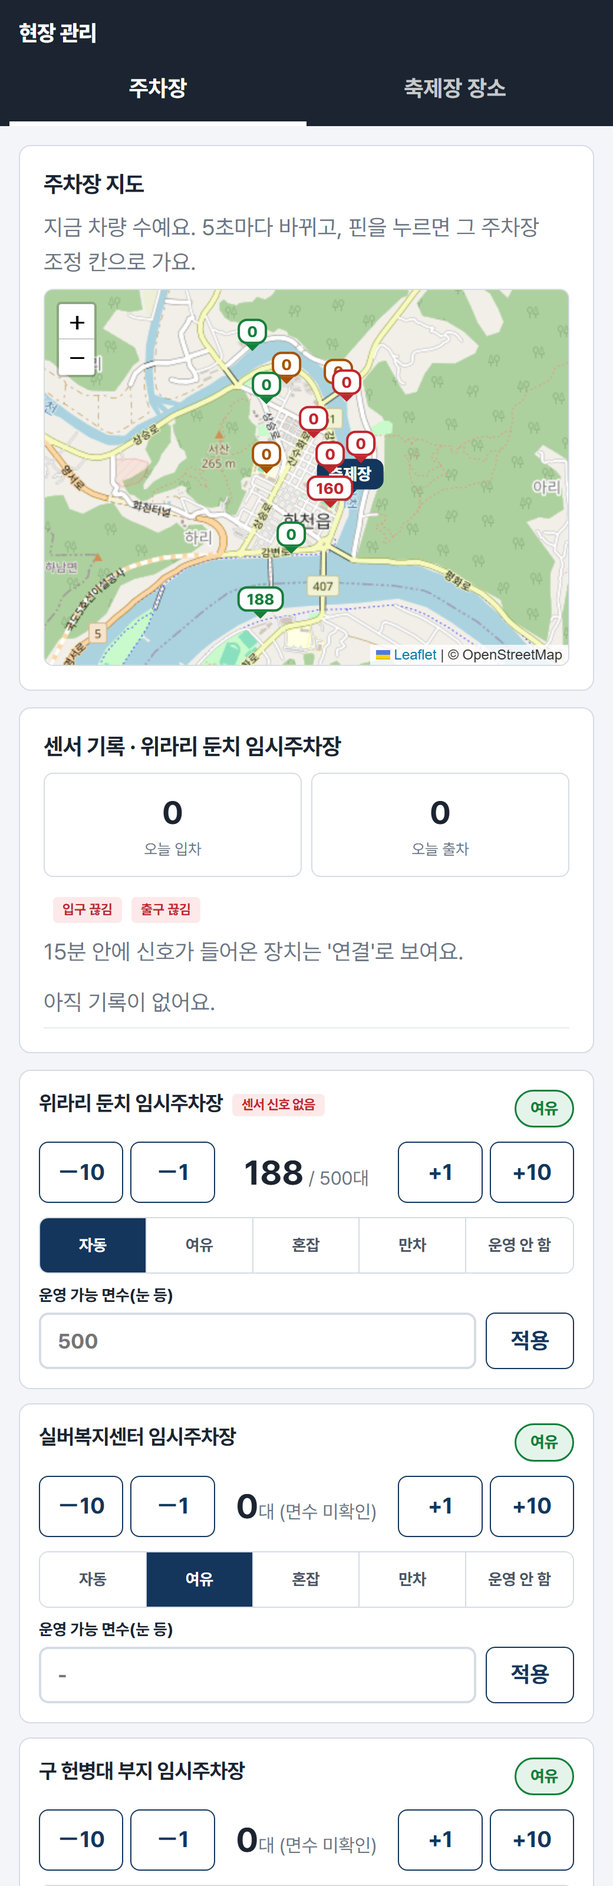
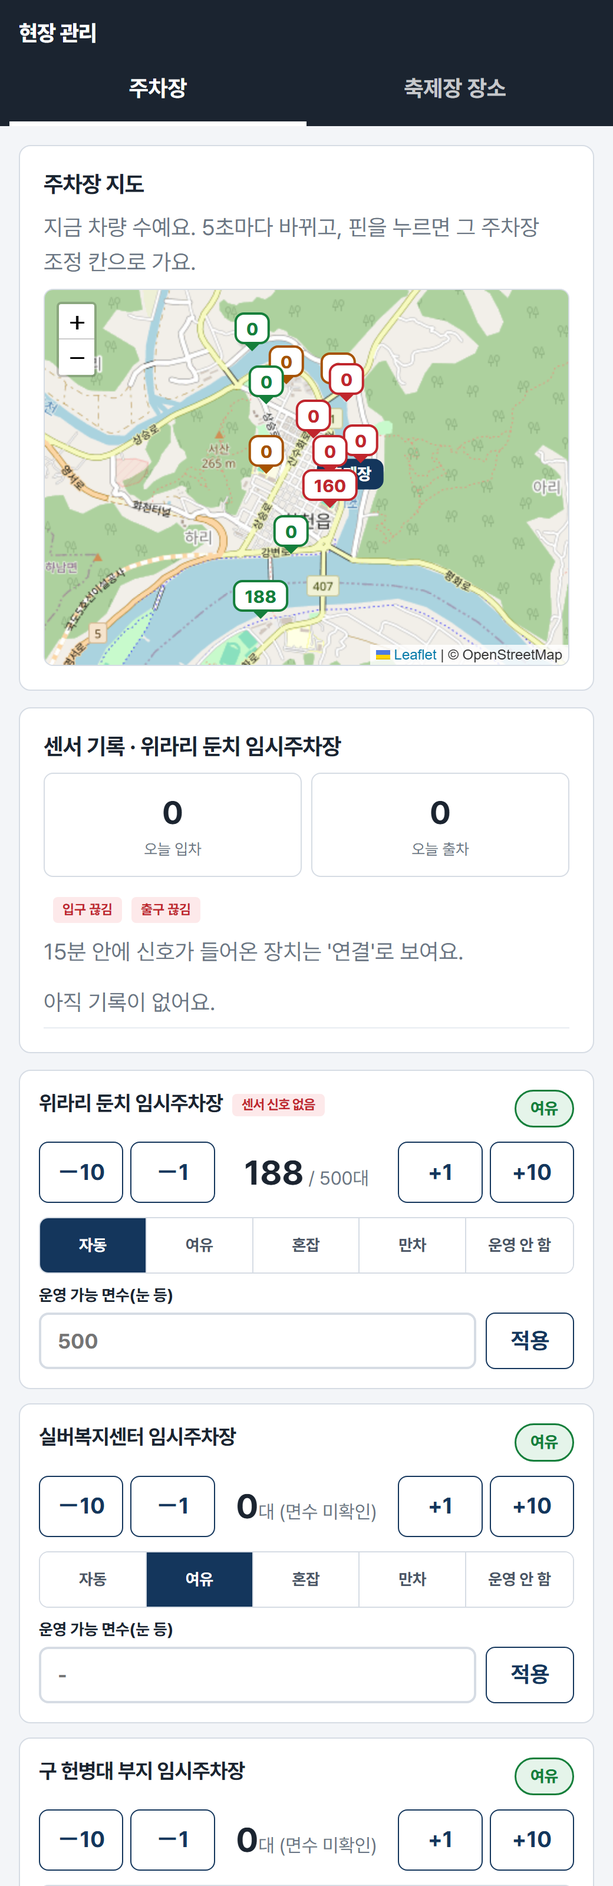
문서 최신화: 기획문서 화면 설명, 발표·시연 계획 새로 작성, 발표 당일 체크리스트, 직접 설정할 것, 화면 캡처 갱신

Changed region(s): [[0.3692, 0.1562, 0.6154, 0.3438]]

diff --git a/docs/발표_시연_계획.md b/docs/발표_시연_계획.md
@@ -1,80 +1,59 @@
-# 발표·시연 계획 (11/21 토, 발표 7분 + 질의 3분, 20쪽 안팎)
-
-> **2026-11-16 변경:** 팀 결정으로 QR·무료이용권 기능을 코드에서 뺐다. 지금 서비스는 남은 자리 안내(센서 집계) + 셔틀 안내 + 현장 관리다. 아래 이용권·QR 관련 내용은 결정 이전 기록이며, 발표 흐름은 새로 정해야 한다.
+# 발표·시연 계획 (11/21 토, 발표 7분 + 질의 3분, 20쪽) — 2026-11-16 최신
 
 듣는 사람: 화천군청 멘토(교통 담당 포함). 이 프로젝트를 **처음 듣는다** → 1학기 내용부터 짧게.
-핵심 메시지 한 줄: **"가까운 주차장을 더 만들 수는 없으니, 먼 주차장에 댈 이유를 주고 그걸 확인하는 일을 쉽게 했다."**
-
-## 1. 슬라이드 구성 (20쪽, 7분)
-| # | 목차 | 슬라이드 | 핵심 내용 / 자료 | 시간 |
-|---|---|---|---|---|
-| 1 | 표지 | 산천어축제 안내 | 팀명, 날짜 | 0:10 |
-| 2 | 1. 과제 선정배경 | 겨울 하루, 화천읍에 몰리는 차 | 재방문율 높은 축제, 좁은 읍내. 사진: 정체·불법주차 (출처 표기) | 0:25 |
-| 3 | | 숫자로 본 문제 | 임시주차장 41개소(2026 안내), 토요일 8:30 만차(인터뷰), 셔틀 20분 간격 | 0:25 |
-| 4 | | 다른 축제는? | 해외·국내 실시간 주차 안내·외곽 주차+셔틀 사례 1~2개 (적용 가능/어려운 점) | 0:20 |
-| 5 | 2. 고객 공감·문제정의 | 누가 힘든가 | 방문객(50대 이상 다수, 탐색·대기) / 현장 직원(주차장당 6명, 사람이 직접 확인) | 0:25 |
-| 6 | | 담당자 인터뷰 (11/12) | 인용 3개: "토요일은 8시 반이면 모든 주차장이 다 차요"(04:29) / "강을 건너야 한다는 생각 때문에 이용을 잘 안 하세요"(05:34) / "차를 통제하다가 사고가 나면… 부담이 크죠"(21:09) | 0:30 |
-| 7 | | 문제 정의 한 문장 | 정보가 없어서가 아니라 **먼 주차장에 갈 이유가 없어서** 가까운 곳으로 몰린다 | 0:15 |
-| 8 | 3. 해결아이디어 | 1학기 아이디어 | QR 예약 전용 주차장 + 센서 | 0:15 |
-| 9 | | 현장에서 바뀐 생각 | "주차 예약을 하면 비워놓는 상황이 생기잖아요"(15:11) · "QR 주차장은 젊은 층에 대한 특혜"(16:40) → **방향 전환** | 0:25 |
-| 10 | | 바뀐 해법 (담당자 제안 그대로) | "무료이용권을 주는 주차장에… QR로 하면"(16:58) → 먼 주차장 주차 → 입구 QR → 센서로 주차 확인 → 휴대폰 이용권 / 현장 컴퓨터 발급(17:15) → 안내소 사용. 셔틀 3→5대 증차 검토(18:26) | 0:25 |
-| 11 | | 부정 발급을 막는 법 | 센서 입차 1건 = 이용권 1장, 차량당 하루 1장, 직원 대리 발급(휴대폰 어려운 분) | 0:20 |
-| 12 | 4. 프로토타입·테스트 | 시스템 구성 | 센서(STM32·Pico) → 노트북 브리지 → 서버 → 웹. 그림 1장 | 0:20 |
-| 13 | | **라이브 시연** | 아래 시연 순서 (1분 30초) | 1:30 |
-| 14 | | 화면 ① 현황판·QR 화면 | 캡처 (docs/shots) | 0:10 |
-| 15 | | 화면 ② 이용권·현장 관리 | 캡처 + QR 안내판 실물 | 0:10 |
-| 16 | | 테스트 결과 | 자동 테스트 12개 통과, 센서 계수 시험 결과(수동 계수 vs 장치 계수 표), 실패·개선 사례 | 0:25 |
-| 17 | | 구현 / 연결 / 계획 구분 | ✔구현: 웹·이용권·관리 / ✔연결: 센서→잔여면수 / ◻계획: 실제 면수·위치 데이터, 현장 설치 | 0:15 |
-| 18 | 5. 기대효과 | 기대효과 (미측정) | 먼 주차장 이용 증가, 가까운 주차장 진입 감소, 직원 확인·발급 업무 감소. 측정 방법(발급 수, 입차 수) 같이 제시 | 0:25 |
-| 19 | 6. 학습포인트 | 우리가 배운 것 | "만들고 싶은 것"과 "현장이 필요한 것"의 차이. 인터뷰 후 방향 전환 경험, 센서 시험 실패 이야기 | 0:30 |
-| 20 | 마무리 | 다음 단계 + 요청 | 담당자께 요청: 주차장별 면수·위치, 이용권 종류, 시범 운영 1곳 | 0:10 |
-
-원칙: 측정 안 한 효과는 "기대효과", 예시 데이터는 "예시"로 말한다. 화천군·축제 공식 로고 사용 금지.
+핵심 한 줄: **"가까운 주차장을 더 만들 수는 없으니, 여유 있는 먼 주차장으로 가게 만드는 정보를 한 화면에 모았다."**
 
 > 당일 아침에는 [발표당일_체크리스트.md](발표당일_체크리스트.md) 만 보면 됨
 
+## 1. 슬라이드 구성 (지정 목차 6개)
+| # | 목차 | 슬라이드 | 핵심 내용 / 자료 | 시간 |
+|---|---|---|---|---|
+| 1 | 표지 | 산천어축제 안내 | 팀명, 날짜, 한 줄 | 0:10 |
+| 2 | 1. 과제 선정배경 | 겨울 하루, 화천읍에 몰리는 차 | 재방문율 높은 축제, 좁은 읍내. 사진: 정체·불법주차(출처 표기) | 0:25 |
+| 3 | | 숫자로 본 문제 | 08:30 토요일 만차(인터뷰), 임시주차장 12곳(2026 안내), 셔틀 20분, 주차장당 직원 6명+ | 0:25 |
+| 4 | | 다른 축제는? | 실시간 주차 안내·외곽 주차+셔틀 사례(적용 가능/어려운 점) | 0:20 |
+| 5 | 2. 고객 공감·문제정의 | 누가 힘든가 | 방문객(50대 이상 다수, 빈자리 찾아 돎) / 현장 직원(무전으로 확인, 통제 권한·책임 부담) | 0:25 |
+| 6 | | 담당자 인터뷰 (11/12) | 인용: "토요일은 8시 반이면 모든 주차장이 다 차요"(04:29) / "강을 건너야 한다는 생각 때문에 이용을 잘 안 하세요"(05:34) / "사람이 일일이 확인"(08:08) | 0:30 |
+| 7 | | 문제 정의 한 문장 | 자리가 없는 게 아니라, **어디가 비었는지·셔틀이 언제 오는지 몰라서** 가까운 곳으로 몰린다 | 0:15 |
+| 8 | 3. 해결아이디어 | 1학기 아이디어 | QR 예약 전용 주차장 + 입출구 센서 | 0:15 |
+| 9 | | 현장에서 바뀐 생각 | "예약을 하면 비워놓는 상황이 생기잖아요"(15:11) · "QR 주차장은 젊은 층 특혜"(16:40) → 예약 대신 **정보 + 혜택 안내** | 0:25 |
+| 10 | | 바뀐 해법: 한 화면 흐름 | ① 여유 있는 곳 추천 → ② 카카오맵 길찾기 → ③ 먼 주차장 주차(센서가 셈) → ④ 셔틀 N분 후 → ⑤ 축제장 안내도 (docs/img/flow.png) | 0:25 |
+| 11 | | 현장 직원 화면 | 주차장 지도에 지금 차량 수, ±버튼, 눈 올 때 운영 가능 면수, 센서 기록 → 무전 대신 화면 하나 | 0:20 |
+| 12 | 4. 프로토타입·테스트 | 시스템 구성 | 센서(STM32·Pico) → 노트북 브리지 → 서버(Render) → 웹(Vercel) (docs/img/architecture.png) | 0:20 |
+| 13 | | **라이브 시연** | 아래 시연 순서 | 1:30 |
+| 14 | | 화면 ① 방문객 | 홈 추천·길찾기, 주차장 상세(셔틀 정류장 지도·걸어서 N분) (docs/shots 01·02) | 0:10 |
+| 15 | | 화면 ② 셔틀·축제장 | 정류장 한 줄 + 버스 위치, 축제장 안내도 (docs/shots 03·04) | 0:10 |
+| 16 | | 테스트 결과 | 자동 테스트 14개 통과, 센서 계수 시험(사람이 센 수 vs 장치가 센 수 표), 실패·개선 사례 | 0:25 |
+| 17 | | 만든 것 / 연결한 것 / 아직인 것 | ✔구현: 웹 전체·관리·센서 수신 / ✔연결: 센서→남은 자리 / ◻아직: 실제 면수·좌표, 셔틀 실시간 GPS, 현장 설치 | 0:15 |
+| 18 | 5. 기대효과 | 기대효과 (미측정) | 먼 주차장 이용 증가, 가까운 곳 진입 감소, 직원 무전 확인 줄임. 측정 방법: 주차장별 입차 수, 위라리 이용률 | 0:25 |
+| 19 | 6. 학습포인트 | 우리가 배운 것 | "만들고 싶은 것"과 "현장이 필요한 것"의 차이. 예약 → 안내로 바꾼 경험, 센서 시험 실패 이야기 | 0:30 |
+| 20 | 마무리 | 다음 단계 + 요청 | 담당자께: 주차장별 면수·위치, 정류장 실제 시각, 시범 운영 1곳(위라리 둔치 입구 센서) | 0:10 |
+
+원칙: 측정 안 한 효과는 "기대효과", 추정 값은 "추정"으로 말한다. 화천군·축제 공식 로고 사용 금지.
+
 ## 2. 라이브 시연 순서 (1분 30초)
-준비물: 노트북(백엔드·프론트·브리지 실행), 센서 키트(입구 A·B), 인쇄한 **QR 안내판**(관리 → QR 안내판 → 인쇄), 시연용 휴대폰, 프로젝터에 노트북 화면.
+준비물: 노트북(브리지), 센서 키트(입구 A·B), 시연용 휴대폰(미러링), 프로젝터에 노트북 화면.
+서버: Render 환경 변수 `DEMO_CLOCK=2027-01-16T09:30`(축제 토요일 오전), `SHUTTLE_ALWAYS=true`.
 
-1. (10초) 프로젝터에 **임시주차장 현황**. "토요일 오전 9시 30분 상황입니다. 가까운 곳은 만차, 위라리 둔치는 남은 자리 312."
-2. (20초) 센서 앞에서 손이나 판으로 **A → B 순서로 빔을 가림** → 현황판 위라리 숫자가 줄어드는 걸 보여줌. "차가 들어오면 센서가 세고 바로 반영됩니다."
-3. (30초) 휴대폰으로 **QR 안내판을 찍음** → 위라리 둔치 화면 → 차량번호 입력 → **이용권 발급**. 휴대폰 화면을 카메라나 미러링으로 보여줌.
-4. (20초) 관리 화면 **이용권 탭** → 번호 입력 → **사용 처리** → 휴대폰 화면이 "사용 완료"로 바뀜. "안내소 직원은 이 화면 하나만 쓰면 됩니다."
-5. (10초) 같은 차량번호로 다시 발급 시도 → "이미 받으셨어요" 거부. 끝.
+1. (15초) 휴대폰 홈: **추천 상자** "위라리 둔치 312자리 남음 · 셔틀 정류장: 화천체육관" → **[카카오맵 길찾기]** 눌러 앱이 열리는 것까지
+2. (20초) 센서 앞에서 판으로 **A→B 순서로 빔 가리기** → 홈·관리 화면 위라리 숫자가 바로 바뀜 ("직원이 무전으로 세던 걸 센서가 셉니다")
+3. (20초) 위라리 상세: **셔틀 정류장 지도 · 걸어서 약 3분 · 다음 셔틀 N분 후 · 타면 축제장까지 10분**
+4. (20초) 셔틀 탭: 정류장 한 줄에서 **버스가 어디쯤 있는지**
+5. (15초) 축제장 탭: **안내도**에서 현장낚시터 눌러 요금·길찾기
 
-### 시연 전 체크 (발표 30분 전)
-```bash
-cd backend && ./gradlew bootRun --args='--app.demo-clock=2027-01-16T09:30'
-cd frontend && npm run dev
-python tools/demo_setup.py
-python sensor/bridge.py --serial COM5      # STM32 포트 확인: 장치 관리자
-```
-- 휴대폰이 노트북 화면에 접속하려면 같은 Wi-Fi + 노트북 IP 주소(`http://192.168.x.x:5173`). 또는 배포 주소(Vercel)로 QR 안내판을 인쇄.
-- 관리 화면 키: 로컬은 `dev-admin`.
-- 한 번 리허설하고 `rm -rf backend/data` 로 초기화한 다음 다시 `demo_setup.py`.
-
-### 플랜 B (센서·네트워크 문제 시)
-- 센서 안 되면: `python sensor/simulate.py --count 5 --fast` 로 입차를 보내서 같은 흐름 진행. "실물 시험 결과는 다음 장에서"라고 말함.
-- 인터넷 안 되면: 노트북 한 대에서 전부 로컬로 실행 (휴대폰 대신 노트북 브라우저로 /p/wirari 접속).
-- 최악: 미리 찍은 **시연 영상**(1분 30초) 재생. → 월요일까지 촬영해 둘 것.
+### 플랜 B
+- 센서 안 되면: `python sensor/simulate.py --api https://parkingmate-api.onrender.com --key "SENSOR_KEY" --count 3 --fast`
+- 인터넷 안 되면: 노트북 로컬 실행 (README "로컬 실행")
+- 최악: 미리 찍은 시연 영상(1분 30초)
 
 ## 3. 예상 질문과 답 (3분)
 | 질문 | 답의 요지 |
 |---|---|
-| 이용권 예산·종류는 누가 정하나? | 군에서 검토 중인 방안(인터뷰)에 맞춰 만들었고, 종류·수량은 설정값이라 정해지면 바로 바뀝니다. 지금은 예시입니다. |
-| QR 사진만 찍어서 집에서 받으면? | 센서가 있는 주차장은 최근 90분 안의 실제 입차 1건당 1장만 발급되고, 차량번호당 하루 1장입니다. 센서 없는 곳은 직원 발급으로 운영합니다. |
-| 어르신들은 휴대폰 못 쓰시는데? | 주차장 직원이 차량번호로 대신 발급하는 화면이 있습니다. 화면 글자도 크게, 단계는 차량번호 하나만 입력하게 했습니다. |
-| 눈 오면 주차선이 안 보이는데 센서가 맞나? | 센서는 들어오고 나간 대수만 셉니다. 실제로 댈 수 있는 면수는 직원이 "운영 가능 면수"로 바로 고칠 수 있게 했습니다(인터뷰 반영). |
-| 겨울 추위에 장비·건전지는? | AA 건전지 전원 + 퓨즈. 영하 시험은 아직 못 했고, 실제 설치 전 확인할 항목으로 정리했습니다. (사실대로) |
-| 개인정보(차량번호)는? | 차량번호는 중복 발급 방지에만 쓰고 그날 축제가 끝나면 지워도 되는 구조입니다. 실제 운영 전 보관 기간을 군과 정하겠습니다. |
-| 설치비·운영비는? | 시제품 부품비 약 56만 원(차로 2개). 서버는 무료 등급으로 시연 중이고, 실제 운영 시 비용은 별도 산정이 필요합니다. |
-| 현장 인력 통제 부담은 줄어드나? | 담당자께서 말씀하신 통제 권한·사고 책임 문제(녹음 20~21분)는 제도 문제라 저희가 풀 수는 없습니다. 다만 막아서 돌려보내는 대신 혜택으로 스스로 가게 하는 방식이라 직원이 차를 직접 막는 상황을 줄이는 쪽입니다. 효과는 아직 측정하지 못했습니다. |
-| 기존 방식보다 뭐가 나은가? | 지금은 직원이 무전으로 상황을 공유합니다. 이 화면 하나로 직원·방문객이 같은 정보를 보고, 발급·사용 기록이 남아 효과를 숫자로 볼 수 있습니다. |
-
-## 4. 월요일 저녁까지 남은 일
-- [ ] 카카오맵 키 넣기 → 지도 카카오로 전환 확인
-- [ ] 담당자 확인: 면수, 강 건너 부지 위치, 이용권 종류 → 시드 데이터 반영
-- [ ] 센서 실물 시험: 수동 계수 vs 장치 계수 10회 이상 기록 (사진·영상)
-- [ ] Render + Neon + Vercel 배포 → QR 안내판을 배포 주소로 인쇄
-- [ ] 시연 영상 촬영 (플랜 B)
-- [ ] PPT 20쪽 작성 (위 표 기준), 발표 리허설 2회 (7분 타이머)
+| 셔틀 위치는 진짜인가? | 지금은 시간표로 계산한 예상 위치라고 화면에 적어 뒀습니다. 기사님 휴대폰 위치를 보내면 실제 위치로 바꿀 수 있게 구조를 나눠 뒀습니다. |
+| 이용권은 누가 주나? | 지급은 화천군(축제 운영)이 맡고, 저희는 "먼 주차장에 대면 이용권" 안내로 방문객을 유도합니다. 인터뷰에서 담당자께서 제안하신 방향입니다. |
+| 어르신들은 휴대폰을 잘 못 쓰시는데? | 첫 화면에 추천 1곳과 큰 길찾기 버튼만 보이게 했고, 글자 19px 이상·버튼 52px 이상입니다. 현장 직원 화면은 주차 안내에 그대로 쓰실 수 있습니다. |
+| 눈 오면 주차선이 안 보이는데? | 센서는 들어오고 나간 대수만 셉니다. 실제 댈 수 있는 면수는 직원이 "운영 가능 면수"로 바로 고칩니다(인터뷰 반영). |
+| 면수·위치가 정확한가? | 화천초 160면(인터뷰), 위라리 약 500대(통화 메모) 외에는 "정보없음"으로 표시합니다. 좌표 일부는 공식 배치도 근사라 멘토링 때 받는 자료로 고칠 예정입니다. |
+| 겨울 추위에 장비·건전지는? | AA 건전지 + 퓨즈 구성. 영하 시험은 아직 못 했고 실제 설치 전 확인할 항목입니다. |
+| 설치비·운영비는? | 시제품 부품 약 56만 원(차로 2개). 서버는 무료 등급으로 운영 중이고 실제 운영 비용은 따로 계산이 필요합니다. |
+| 기존 방식보다 뭐가 나은가? | 직원은 무전 대신 화면 하나로 같은 숫자를 보고, 방문객은 같은 숫자를 휴대폰으로 봅니다. 입차 기록이 남아 효과를 숫자로 볼 수 있습니다. |

diff --git a/docs/직접_설정할_것.md b/docs/직접_설정할_것.md
@@ -1,48 +1,37 @@
-# 직접 해 주셔야 하는 설정·확인 (2026-11-15)
+# 직접 해 주셔야 하는 설정·확인 (2026-11-16 최신)
 
-키와 비밀번호는 채팅에 붙여 넣지 말고, 아래에 적은 파일이나 환경 변수에 직접 넣어 주세요.
+키와 비밀번호는 채팅에 붙여 넣지 말고, 아래에 적은 곳에 직접 넣어 주세요.
 
-## 1. 카카오맵 키 (지도 표시에 꼭 필요)
-1. https://developers.kakao.com 에 카카오 계정으로 로그인합니다.
-2. 내 애플리케이션 → 애플리케이션 추가하기를 누릅니다. 앱 이름은 예를 들어 `화천축제주차안내`로 합니다.
-3. 앱 설정 → 플랫폼 → Web 플랫폼 등록에서 사이트 도메인을 추가합니다.
-   - `http://localhost:5173`
-   - Vercel 배포 주소는 배포한 뒤에 추가합니다.
-4. 제품 설정 → 카카오맵 → 사용 설정을 ON으로 켭니다. 이걸 안 켜면 지도가 안 떠요.
-5. 앱 키 2개를 저장합니다.
-   - JavaScript 키: `frontend/.env.local` 파일을 새로 만들고 아래 한 줄을 적습니다.
-     ```
-     VITE_KAKAO_JS_KEY=여기에_JavaScript_키
-     ```
-   - REST API 키: 주차장 좌표를 카카오 검색으로 보정할 때 씁니다. 잘 보관해 두면 나중에 실행 방법을 알려 드릴게요.
+## 끝난 것
+- [x] GitHub 저장소: https://github.com/bbobbi76/ParkingMate (main 에 push 하면 바로 배포)
+- [x] Neon(PostgreSQL), Render(서버), Vercel(웹) 배포
+- [x] 카카오맵 JavaScript 키 + `https://parking-mate.vercel.app` 도메인 등록 → 배포 사이트에서 카카오맵 표시 확인
 
-키가 없어도 지도는 OpenStreetMap으로 대신 나와요. 그래도 발표할 때는 카카오맵이 더 익숙해서 좋아요.
+## 남은 것
+### 1. 카카오 개발자 콘솔 (로컬에서도 카카오맵 보려면)
+developers.kakao.com → 내 애플리케이션 → 앱 설정 → 플랫폼 → Web 사이트 도메인에 추가
+- `http://localhost:5173`
+- `http://<내 PC IP>:5173` (같은 와이파이 휴대폰으로 볼 때)
 
-## 2. GitHub 저장소
-- 새 저장소를 만듭니다. 예: `hwacheon-parking`, Private도 괜찮아요.
-- 만들고 나서 주소를 알려 주시면 제가 코드를 올려 둘게요.
+등록 안 하면 로컬에서는 OpenStreetMap 으로 대신 나와요(기능은 같음).
 
-## 3. Neon (PostgreSQL DB, 무료, 카드 불필요)
-1. https://neon.tech 에 GitHub로 가입합니다.
-2. 새 프로젝트를 만들 때 Region은 AWS Asia Pacific (Singapore)로 고릅니다.
-3. Connection string을 복사해서 메모장에 보관합니다. Render 배포 때 씁니다.
+### 2. Render 환경 변수 (발표 전 확인)
+Render → parkingmate-api → Environment
+| 이름 | 발표 때 | 평소 |
+|---|---|---|
+| `DEMO_CLOCK` | `2027-01-16T09:30` | 비움(현재 시각) |
+| `SHUTTLE_ALWAYS` | `true` | 실제 운영 시 `false` |
+| `ADMIN_OPEN` | `true` | `false` |
 
-## 4. Render (백엔드 서버, 무료) / Vercel (웹 화면, 무료)
-- https://render.com , https://vercel.com 에 각각 GitHub로 가입만 해 두세요.
-- 실제 배포는 저장소를 만든 뒤에 같이 해요.
-- Render 무료 서버는 15분 동안 아무도 안 쓰면 잠들어요. 시연 5분 전에 사이트를 한 번 열어서 깨워 두면 됩니다.
+### 3. 좌표 보정 (선택)
+카카오 REST API 키가 있으면 주차장·축제장 장소 좌표를 카카오 장소 검색으로 고칠 수 있어요. 키는 PowerShell 에서만 넣기: `$env:KAKAO_REST_KEY = "..."`
+특히 위라리 둔치는 지금 배치도 근사 좌표라 강 쪽으로 조금 치우쳐 보여요.
 
-## 5. 담당자께 확인할 데이터 (문자나 전화)
-- [ ] 임시주차장별 면수. 지금 아는 건 화천초 약 160대, 강 건너 약 500대뿐이에요.
-- [ ] "강 건너 약 500대" 부지가 **위라리 둔치 주차장**이 맞는지
-- [ ] 무료이용권 종류. 녹음에는 "낚시 제외, 눈썰매 등 체험"으로 나와요.
-- [ ] 이용권을 줄 주차장. 지금은 위라리 둔치, 실버복지센터, 구 헌병대 부지로 잡아 둔 팀 제안이에요.
-- [ ] 2027 축제 셔틀 정류장별 도착 시각. 지금은 정류장 사이 10분으로 추정해 넣었어요.
+### 4. 담당자께 확인할 데이터 (멘토링 때)
+- [ ] 임시주차장별 면수·정확한 위치, 2027 축제 사용 여부(특히 화천초)
+- [ ] "강 건너 약 500대" 부지가 위라리 둔치가 맞는지
+- [ ] 이용권 지급 방식·장소(화천군 운영)와 대상 주차장
+- [ ] 셔틀 정류장별 실제 도착 시각, 증차 계획
 
-## 6. 하드웨어 (센서 연결용)
-- STM32는 차가 지나갈 때마다 USB 시리얼로 한 줄씩 보내게 해 주세요. 형식은 `IN` 또는 `OUT`이고 줄 끝에 줄바꿈을 붙여요. 노트북 쪽 브리지 프로그램은 제가 만들게요.
-- Pico 2 WH는 Wi-Fi로 노트북의 브리지에 같은 형식으로 보내요. 펌웨어 예시 코드도 드릴게요.
-
-## 지금 이미 확보한 공식 자료
-- 임시주차장 11개소와 캠핑카 1개소의 이름과 배치도: 재단법인 나라 2026 「임시 주차장 안내」
-- 주말 셔틀: 토·일 09:00~18:00, 4대 순환, 약 20분 간격. 정류장 순서는 화천체육관 → 청소년 수련관 → 화천실버복지센터 → 구 헌병대 → 정보산업고 → 시외버스터미널 → 배수펌프장
+### 5. 하드웨어
+- 센서 연동은 [하드웨어_전달_박서빈.md](하드웨어_전달_박서빈.md) 와 지침서 기준. 배포 서버 주소와 `SENSOR_KEY` 는 직접 전달.

diff --git a/docs/발표당일_체크리스트.md b/docs/발표당일_체크리스트.md
@@ -6,10 +6,14 @@
 | 웹 (방문객) | https://parking-mate.vercel.app |
 | 현장 관리 | https://parking-mate.vercel.app/admin |
 | 위라리 둔치 상세 | https://parking-mate.vercel.app/p/wirari |
+| 셔틀 | https://parking-mate.vercel.app/shuttle |
+| 축제장 안내도 | https://parking-mate.vercel.app/festival |
 | API 명세서 | https://parkingmate-api.onrender.com/swagger-ui.html |
 | GitHub | https://github.com/bbobbi76/ParkingMate |
 
 관리자 키·센서 키: Render → parkingmate-api → **Environment** (`ADMIN_KEY`, `SENSOR_KEY`). 채팅·슬라이드에 쓰지 않기.
+
+시연 설정(Render Environment): `DEMO_CLOCK=2027-01-16T09:30`(축제 토요일 오전부터 시계가 흐름), `SHUTTLE_ALWAYS=true`(셔틀 항상 운행), `ADMIN_OPEN=true`(관리 화면 키 없이). 값 바꾸면 Render 가 다시 배포(3~5분).
 
 ## 발표 30분 전
 - [ ] **서버 깨우기**: https://parkingmate-api.onrender.com/api/now 열기 → 숫자 나오면 OK (15분 미사용 시 잠듦, 첫 접속 약 1분)
@@ -18,7 +22,7 @@
   $env:ADMIN_KEY = "Render의 ADMIN_KEY 값"
   python tools/demo_setup.py --api https://parkingmate-api.onrender.com
   ```
-- [ ] 웹 열어서 확인: `09:3x 기준`, 만차 5 · 혼잡 3, 지도(카카오) 표시
+- [ ] 웹 열어서 확인: `09:3x 기준`, 만차 5 · 혼잡 3, 추천 상자에 위라리 둔치, 지도(카카오) 표시
 - [ ] 센서 브리지 켜기 (노트북)
   ```powershell
   python sensor/bridge.py --api https://parkingmate-api.onrender.com --key "Render의 SENSOR_KEY 값" --serial COM5
@@ -34,11 +38,12 @@
 - [ ] 시연 영상 파일 (플랜 B)
 
 ## 시연 순서 (1분 30초)
-1. 현황판: "토요일 9시 30분, 가까운 곳 만차, 위라리 둔치 남은 자리"
-2. 센서 가리기 → 숫자 줄어듦
-3. 출구 센서 가리기 → 숫자 다시 늘어남
-4. 관리 화면: 센서 기록(입차·출차), 입구·출구 연결 상태, 오늘 입차·출차 수
-5. 눈 온 상황: 관리 화면에서 운영 가능 면수 줄이기 → 현황판 남은 자리·혼잡도 바로 바뀜
+1. 홈 추천 상자: "위라리 둔치 312자리 남음 · 셔틀 정류장: 화천체육관" → [카카오맵 길찾기]
+2. 입구 센서 가리기 → 홈·관리 화면 위라리 숫자 줄어듦 (출구 가리면 다시 늘어남)
+3. 위라리 상세: 셔틀 정류장 지도 · 걸어서 약 3분 · 다음 셔틀 N분 후 · 축제장까지 10분
+4. 셔틀 탭: 정류장 한 줄에서 버스 위치
+5. 축제장 탭: 안내도에서 현장낚시터 → 요금·길찾기
+(시간 남으면) 관리 화면: 운영 가능 면수 줄이기 → 홈 남은 자리·혼잡도 바로 바뀜
 
 ## 안 될 때
 | 문제 | 대처 |

diff --git a/docs/기획문서.md b/docs/기획문서.md
@@ -21,10 +21,10 @@ KNU RE:RISE 7팀 · 배포: 웹 https://parking-mate.vercel.app · 서버 https:
 ### 방문객 (스마트폰)
 | 화면 | 주소 | 하는 일 |
 |---|---|---|
-| 주차장 현황 | `/` | 맨 위 **"여기에 대세요"** 추천 1곳(남은 자리·셔틀·이용권). 여유/혼잡/만차 개수, 지도, 목록. 주차장을 누르면 화면 아래에 **[카카오맵 길찾기] [자세히]** |
-| 주차장 상세 | `/p/{코드}` | 남은 자리, 카카오맵 길찾기, 이용 혜택 안내, 그 정류장 다음 셔틀 N분 후, 셔틀로 축제장까지 N분 |
+| 주차장 현황 | `/` | 맨 위 **추천 상자**(남은 자리 많은 곳 1곳 · 셔틀 정류장 · [카카오맵 길찾기]). 여유/혼잡/만차/정보없음 칸을 누르면 그 상태만 보기. 지도·목록에서 주차장을 누르면 화면 아래에 **[카카오맵 길찾기] [자세히]**, 다시 누르면 해제 |
+| 주차장 상세 | `/p/{코드}` | 남은 자리, 카카오맵 길찾기, 이용 혜택 안내, **셔틀 정류장 지도 · 주차장에서 걸어서 N분** · 정류장까지 길찾기, 다음 셔틀 N분 후, 타면 축제장까지 N분 |
 | 셔틀 | `/shuttle` | 버스 앱처럼 **정류장 한 줄** + 정류장 사이 버스 위치, 정류장마다 "N분 후", 축제장 앞 정류장 표시. 지도는 "지도로 보기" |
-| 축제장 안내 | `/festival` | 낚시터·체험장·먹거리·접수처 25곳 지도와 목록, 요금, 길찾기 |
+| 축제장 안내 | `/festival` | **안내도**(강을 가운데 둔 그림 지도: 얼음 위 낚시터·체험장, 양쪽 둑 접수처·먹거리·안내센터) / 실제 지도 전환. 장소를 누르면 요금·길찾기. 25곳 |
 
 ### 현장 직원·담당자 (휴대폰·노트북) `/admin`
 - **주차장 탭**: 주차장 지도(지금 차량 수, 5초 갱신, 핀을 누르면 그 주차장 조정 칸으로), 센서 기록(오늘 입차·출차, 입구·출구 연결 상태), 주차장별 차량 수 ±1/±10, 상태(자동·여유·혼잡·만차·운영 안 함), 운영 가능 면수(눈 올 때), 시연 초기화
